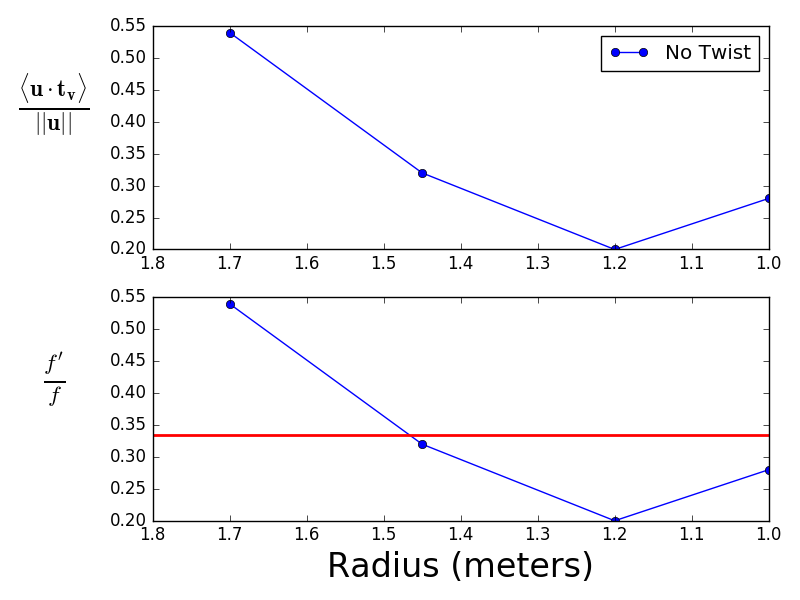
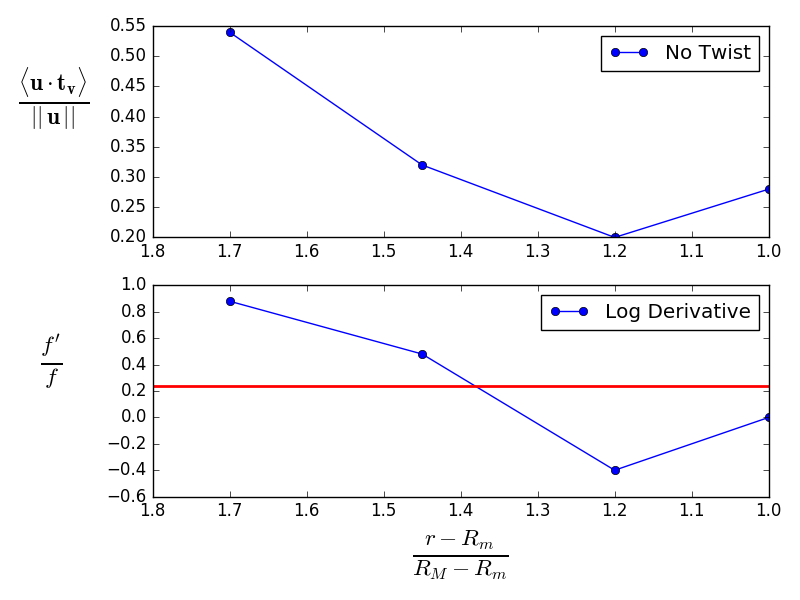
adding more stuff

diff --git a/disputatio/routines/annealing/anneal.py b/disputatio/routines/annealing/anneal.py
@@ -4,9 +4,17 @@
 #
 import sys
 
-# no twist
+import numpy as np
 r = [1.7,1.45,1.2,1.0]
 f = [0.54,0.32,0.20,0.28]
+test = [1,1,1,1]
+
+fp = np.zeros(len(f))
+rp = r[:len(r)-1]
+for i in xrange(len(f)-1):
+    fp[i] = (f[i+1]-f[i])/(r[i+1]-r[i])
+
+print fp
 
 #
 # iteration number (should be same as flux, above)
@@ -19,14 +27,11 @@ xmin=1.0
 #
 # now, plot it and make it look good while you are at it
 #
-import numpy as np
 import matplotlib.pyplot as plt
 fsz=24
 
-plt.figure(1)
-plt.subplot(211)
+plt.subplot(2,1,1)
 #fig,ax = plt.subplots()
-
 
 #
 # figure one
@@ -35,7 +40,7 @@ plt.subplot(211)
 plt.plot(r,f, 'ko-', color='blue',label='No Twist')
 plt.xlim(xmax, xmin)
 #plt.ylim(0.9, 1.4)
-plt.ylabel(r'$\frac{\langle {\bf u }\cdot {\bf t_v } \rangle}{|| {\bf u} ||}$',fontsize=fsz,rotation=0,labelpad=40)
+plt.ylabel(r'$\frac{\langle {\bf u }\cdot {\bf t_v } \rangle}{||\, {\bf u}\, ||}$',fontsize=fsz,rotation=0,labelpad=40)
 #ax.set_yscale('log')
 plt.legend()
 #ax.xaxis.set_major_formatter(plt.NullFormatter())
@@ -44,12 +49,13 @@ plt.legend()
 #
 # figure two
 #
-plt.subplot(212)
-plt.plot(r,f, 'ko-', color='blue',label='No Twist')
+plt.subplot(2,1,2)
+plt.plot(r,fp, 'ko-', color='blue',label='Log Derivative')
 plt.ylabel(r'$\frac{f^{\prime}}{f}$',fontsize=fsz,rotation=0,labelpad=40)
-plt.xlabel(r'Radius (meters)',fontsize=fsz)
-plt.axhline(y=np.average(f), linewidth=2, color = 'red')
+plt.xlabel(r'$\frac{r-R_{m}}{R_{M}-R_{m}}$',fontsize=fsz)
+plt.axhline(y=np.average(fp), linewidth=2, color = 'red')
 plt.xlim(xmax, xmin)
+plt.legend()
 
 #
 # save figure

diff --git a/disputatio/dissertation/chapter-model.tex b/disputatio/dissertation/chapter-model.tex
@@ -532,8 +532,8 @@ trailing edges.
     averaging. This was taken at half the height of the turning vanes,
     although the results do not differ at greater or lower height. Note
     that the plots are normalized by the misfit at the entrance to the
-    vanes. $R_max$ is the furthest radial extent of the gridded vanes,
-    and $R_min$ the smallest radial extent. }
+    vanes. $R_{M}$ is the furthest radial extent of the gridded vanes,
+    and $R_{m}$ the smallest radial extent. }
      \label{fig:annealing}
    \end{figure}
 
